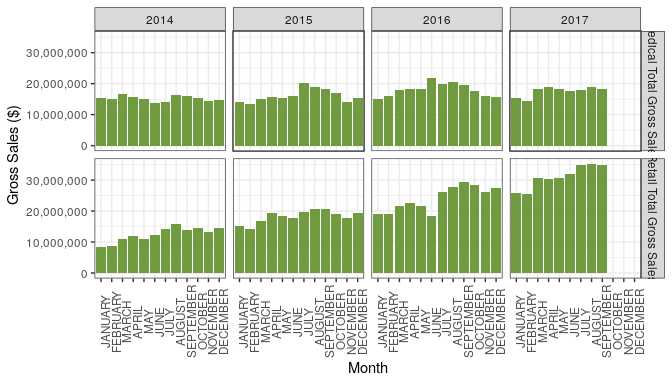
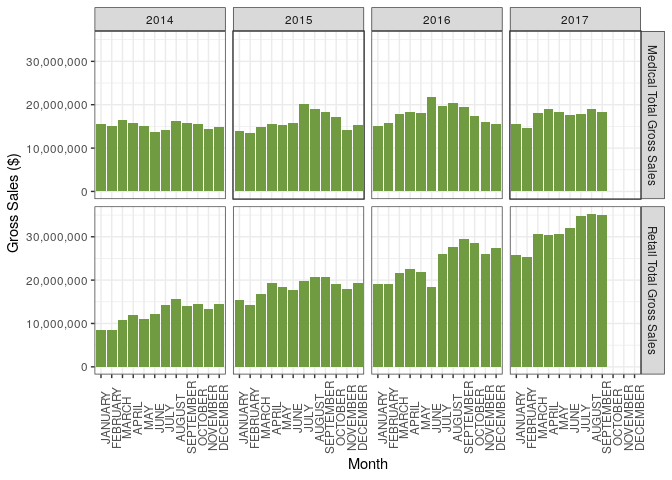
3:33 3/3 3 figures

diff --git a/README.md b/README.md
@@ -98,7 +98,7 @@ ggplot(weed, aes(x = MONTH, y = GROSS_SALES)) +
   theme(axis.text.x = element_text(angle = 90))
 ```
 
-<img src="man/figures/README-unnamed-chunk-8-1.png" width="100%" />
+<img src="man/figures/README-unnamed-chunk-8-1.png" width="75%" />
 
 gross sales by month, faceted by year and retail/medical
 
@@ -113,7 +113,7 @@ ggplot(weed, aes(x = MONTH, y = GROSS_SALES)) +
   theme(axis.text.x = element_text(angle = 90))
 ```
 
-<img src="man/figures/README-unnamed-chunk-9-1.png" width="100%" />
+<img src="man/figures/README-unnamed-chunk-9-1.png" width="75%" />
 
 finally, a use for `weed_wider` in a scatterplot of medical vs retail
 sales, by year
@@ -127,7 +127,7 @@ ggplot(weed_wider, aes(x = `Medical Total Gross Sales`, y = `Retail Total Gross 
   theme_bw()
 ```
 
-<img src="man/figures/README-unnamed-chunk-10-1.png" width="100%" />
+<img src="man/figures/README-unnamed-chunk-10-1.png" width="75%" />
 
 ## Attribution
 
